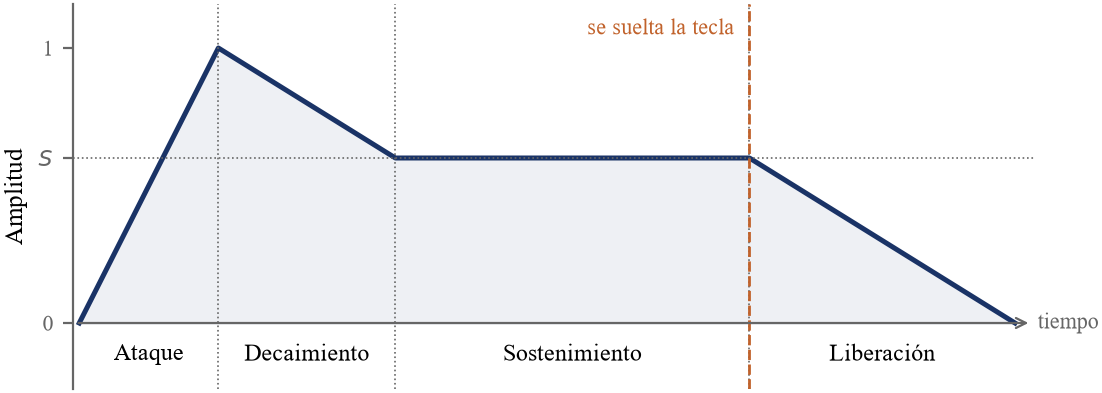
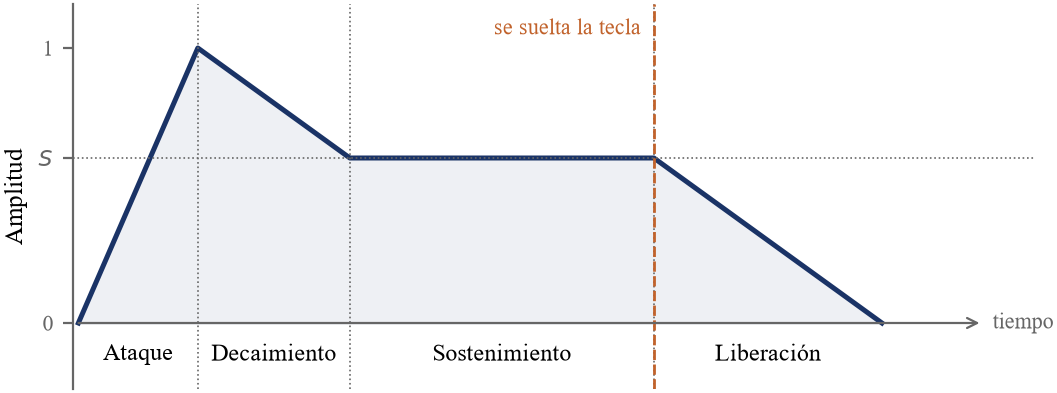
Figura ADSR: margen a la derecha para que liberacion no toque la flecha de tiempo

diff --git a/memoria/figuras/fig_adsr.py b/memoria/figuras/fig_adsr.py
@@ -47,7 +47,11 @@ for nombre, x0, x1 in zip(etiquetas, fronteras[:-1], fronteras[1:]):
 
 ax.axhline(nivel_sustain, color=GRIS, linewidth=0.6, linestyle=":")
 
-ax.set_xlim(-0.05, fronteras[-1] + 0.15)
+# El eje se extiende mas alla del final de la envolvente para que la flecha
+# de tiempo no se solape con el tramo de liberacion
+margen_derecho = 1.4
+
+ax.set_xlim(-0.05, fronteras[-1] + margen_derecho)
 ax.set_ylim(-0.24, 1.16)
 ax.set_ylabel("Amplitud")
 ax.set_xticks([])
@@ -58,9 +62,9 @@ for lado in ("top", "right", "bottom"):
     ax.spines[lado].set_visible(False)
 
 # Eje de tiempo como flecha, para no chocar con las etiquetas de los tramos
-ax.annotate("", xy=(fronteras[-1] + 0.15, 0), xytext=(-0.05, 0),
+ax.annotate("", xy=(fronteras[-1] + margen_derecho - 0.45, 0), xytext=(-0.05, 0),
             arrowprops=dict(arrowstyle="->", color=GRIS, linewidth=0.8))
-ax.text(fronteras[-1] + 0.18, 0, "tiempo", ha="left", va="center",
-        fontsize=8, color=GRIS)
+ax.text(fronteras[-1] + margen_derecho - 0.38, 0, "tiempo", ha="left",
+        va="center", fontsize=8, color=GRIS)
 
 guardar(fig, "adsr")
